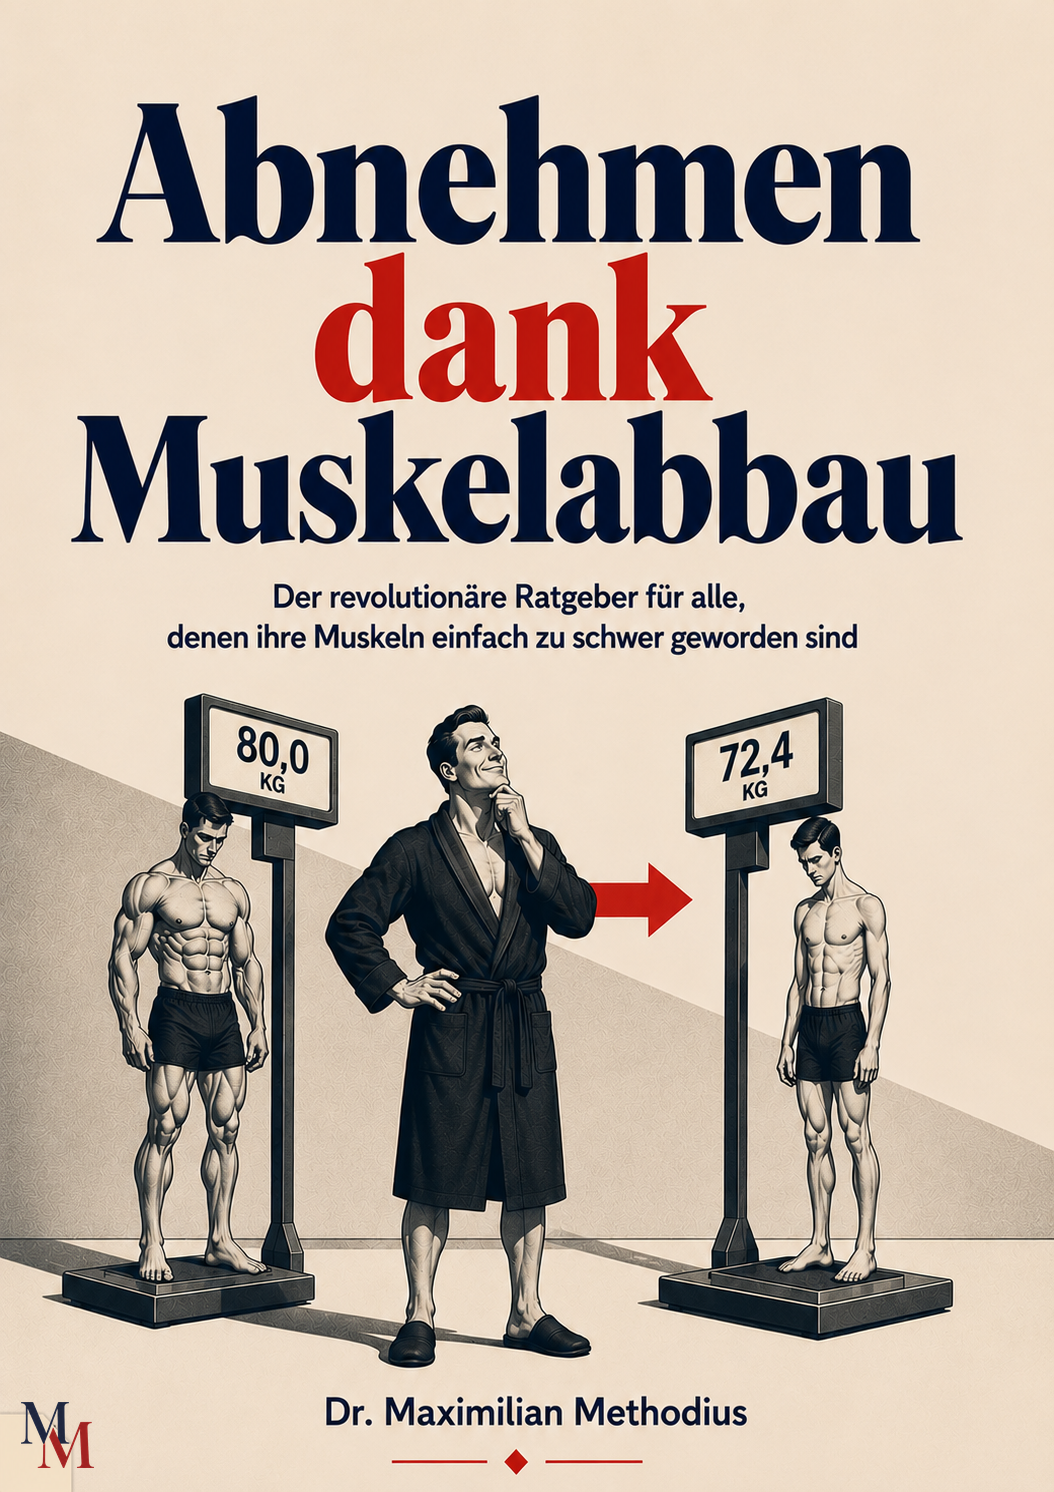
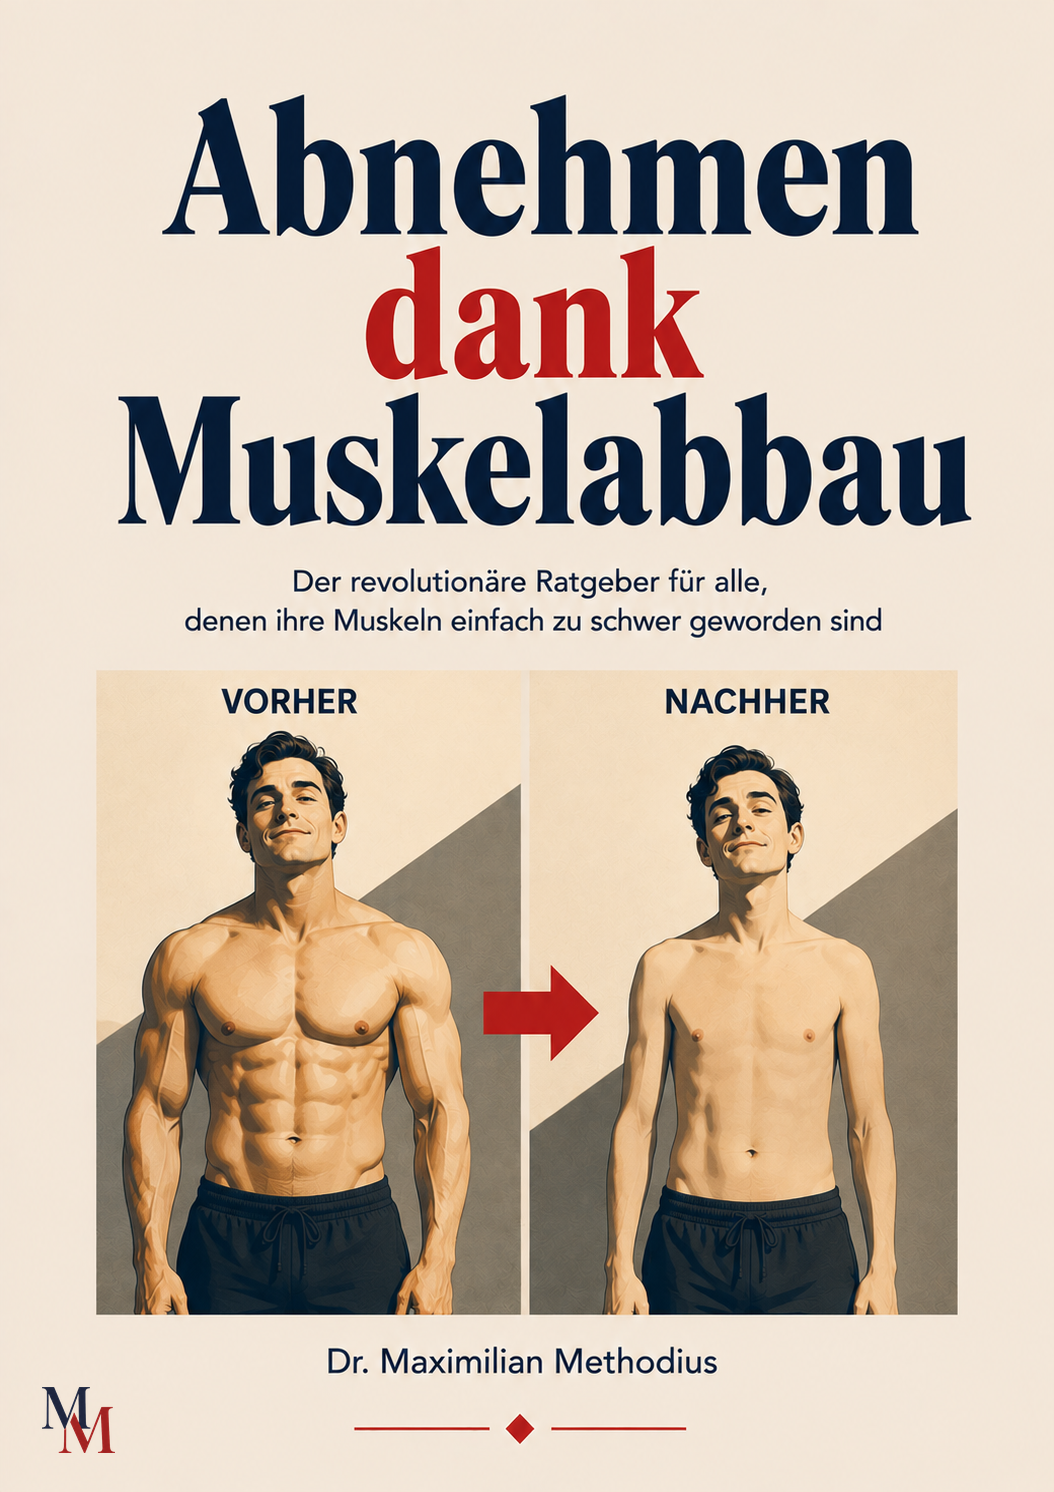
add many covers

diff --git a/js/ratgeber.js b/js/ratgeber.js
@@ -37,25 +37,17 @@
   "Neueste Ratgeber" zeigt automatisch die letzten Einträge.
 */
 const ratgeberRohdaten = [
-  //{slug: "Abnehmen dank Muskelabbau", erstellt: "2026-08-30", kategorie: RatgeberKategorie.LEBEN},
-  {slug: "Das perfekte Leben auf Social Media", erstellt: "2026-08-30", kategorie: RatgeberKategorie.LEBEN},
-  {slug: "Das perfekte Leben auf Social Media", erstellt: "2026-08-30", kategorie: RatgeberKategorie.LEBEN},
-  {slug: "Das perfekte Leben auf Social Media", erstellt: "2026-08-30", kategorie: RatgeberKategorie.LEBEN},
-  {slug: "Das perfekte Leben auf Social Media", erstellt: "2026-08-30", kategorie: RatgeberKategorie.LEBEN},
-  {slug: "Das perfekte Leben auf Social Media", erstellt: "2026-08-30", kategorie: RatgeberKategorie.LEBEN},
-  {slug: "Das perfekte Leben auf Social Media", erstellt: "2026-08-30", kategorie: RatgeberKategorie.LEBEN},
-  {slug: "Das perfekte Leben auf Social Media", erstellt: "2026-08-30", kategorie: RatgeberKategorie.LEBEN},
-  {slug: "Das perfekte Leben auf Social Media", erstellt: "2026-08-30", kategorie: RatgeberKategorie.LEBEN},
-  {slug: "Die Kunst, beschäftigt auszusehen", erstellt: "", kategorie: RatgeberKategorie.ALLTAG_BERUF},
-  {slug: "Freunde verlieren leicht gemacht", erstellt: "", kategorie: RatgeberKategorie.GESELLSCHAFT},
+  {slug: "Abnehmen dank Muskelabbau", erstellt: "2026-08-30", kategorie: RatgeberKategorie.LEBEN},
+  {slug: "Die Kunst, beschäftigt auszusehen", erstellt: "2026-08-30", kategorie: RatgeberKategorie.ALLTAG_BERUF},
+  {slug: "Freunde verlieren leicht gemacht", erstellt: "2026-08-30", kategorie: RatgeberKategorie.GESELLSCHAFT},
   {slug: "Glücklich werden durch niedrigere Erwartungen", erstellt: "", kategorie: RatgeberKategorie.LEBEN},
-  {slug: "In 12 einfachen Schritten zum US-Präsidenten", erstellt: "", kategorie: RatgeberKategorie.GESELLSCHAFT},
+  {slug: "In 12 einfachen Schritten zum US-Präsidenten", erstellt: "2026-08-30", kategorie: RatgeberKategorie.GESELLSCHAFT},
   {slug: "KI (gar nicht) sicher nutzen", erstellt: "", kategorie: RatgeberKategorie.WISSEN_TECHNIK},
   {slug: "Smalltalk für Fortgeschrittene", erstellt: "", kategorie: RatgeberKategorie.GESELLSCHAFT},
   {slug: "Stress reduzieren durch Faulheit", erstellt: "", kategorie: RatgeberKategorie.LEBEN},
   {slug: "Intelligent werden mit KI", erstellt: "", kategorie: RatgeberKategorie.WISSEN_TECHNIK},
   {slug: "Muskelkater ohne Training", erstellt: "", kategorie: RatgeberKategorie.LEBEN},
-  {slug: "Erfolgreich werden ohne Leistung", erstellt: "", kategorie: RatgeberKategorie.ALLTAG_BERUF},
+  {slug: "Erfolgreich werden ohne Leistung", erstellt: "2026-08-30", kategorie: RatgeberKategorie.ALLTAG_BERUF},
   {slug: "Aluhüte im Alltag richtig verwenden", erstellt: "", kategorie: RatgeberKategorie.WISSEN_TECHNIK},
   {slug: "Warum beim Nachbarn das Gras immer viel grüner ist", erstellt: "", kategorie: RatgeberKategorie.GESELLSCHAFT},
   {slug: "Termine vermeiden leicht gemacht", erstellt: "", kategorie: RatgeberKategorie.ALLTAG_BERUF},
@@ -66,14 +58,14 @@ const ratgeberRohdaten = [
   {slug: "Freunde finden in Dating-Portalen", erstellt: "", kategorie: RatgeberKategorie.GESELLSCHAFT},
   {slug: "Warum ein Passwort für alles reicht", erstellt: "", kategorie: RatgeberKategorie.WISSEN_TECHNIK},
   {slug: "Meetings überleben ohne Expertise", erstellt: "", kategorie: RatgeberKategorie.ALLTAG_BERUF},
-  {slug: "Das perfekte Leben auf Social Media", erstellt: "", kategorie: RatgeberKategorie.MEDIEN},
+  {slug: "Das perfekte Leben auf Social Media", erstellt: "2026-08-30", kategorie: RatgeberKategorie.MEDIEN},
   {slug: "Politische Bildung durch soziale Medien", erstellt: "", kategorie: RatgeberKategorie.MEDIEN},
   {slug: "Wie man zuverlässig unzuverlässig wird", erstellt: "", kategorie: RatgeberKategorie.ALLTAG_BERUF},
   {slug: "Pünktlichkeit verbessern durch Zugausfälle", erstellt: "", kategorie: RatgeberKategorie.ALLTAG_BERUF},
   {slug: "Warum ich heute leider keine Zeit habe", erstellt: "", kategorie: RatgeberKategorie.ALLTAG_BERUF},
   {slug: "Vom Millionär zum Tellerwäscher in nur 7 Tagen", erstellt: "", kategorie: RatgeberKategorie.LEBEN},
   {slug: "So wirst du zum modernen Künstler", erstellt: "", kategorie: RatgeberKategorie.KUNST_KULTUR},
-  {slug: "Gedanken lesen durch geschicktes Raten", erstellt: "", kategorie: RatgeberKategorie.WISSEN_TECHNIK},
+  {slug: "Gedanken lesen durch geschicktes Raten", erstellt: "2026-08-30", kategorie: RatgeberKategorie.WISSEN_TECHNIK},
   {slug: "Statistiken fälschen leicht gemacht", erstellt: "", kategorie: RatgeberKategorie.WISSEN_TECHNIK},
   {slug: "Zum Influencer in nur 2 Stunden", erstellt: "", kategorie: RatgeberKategorie.MEDIEN},
   {slug: "Der perfekte Körper dank geschickter Beleuchtung", erstellt: "", kategorie: RatgeberKategorie.MEDIEN},

diff --git a/python/add_logo.py b/python/add_logo.py
@@ -135,11 +135,12 @@ def add_logo(
     print(f"Gespeichert: {output_path}")
 
 
-def get_all_cover_names(source_dir="../pics/ratgeber-front-nologo"):
+def get_all_cover_names(typ):
     """
     Liefert alle Cover-Namen (ohne .png-Endung) aus dem
     Quellordner zurück.
     """
+    source_dir = f"../pics/ratgeber-{typ}-nologo"
     pattern = os.path.join(source_dir, "*.png")
     return [
         os.path.splitext(os.path.basename(path))[0]
@@ -174,7 +175,7 @@ if __name__ == "__main__":
     args = parse_args()
 
     if args.name == "*":
-        cover_names = get_all_cover_names()
+        cover_names = get_all_cover_names(args.type)
 
         if not cover_names:
             print("Keine Cover im Quellordner gefunden.")
